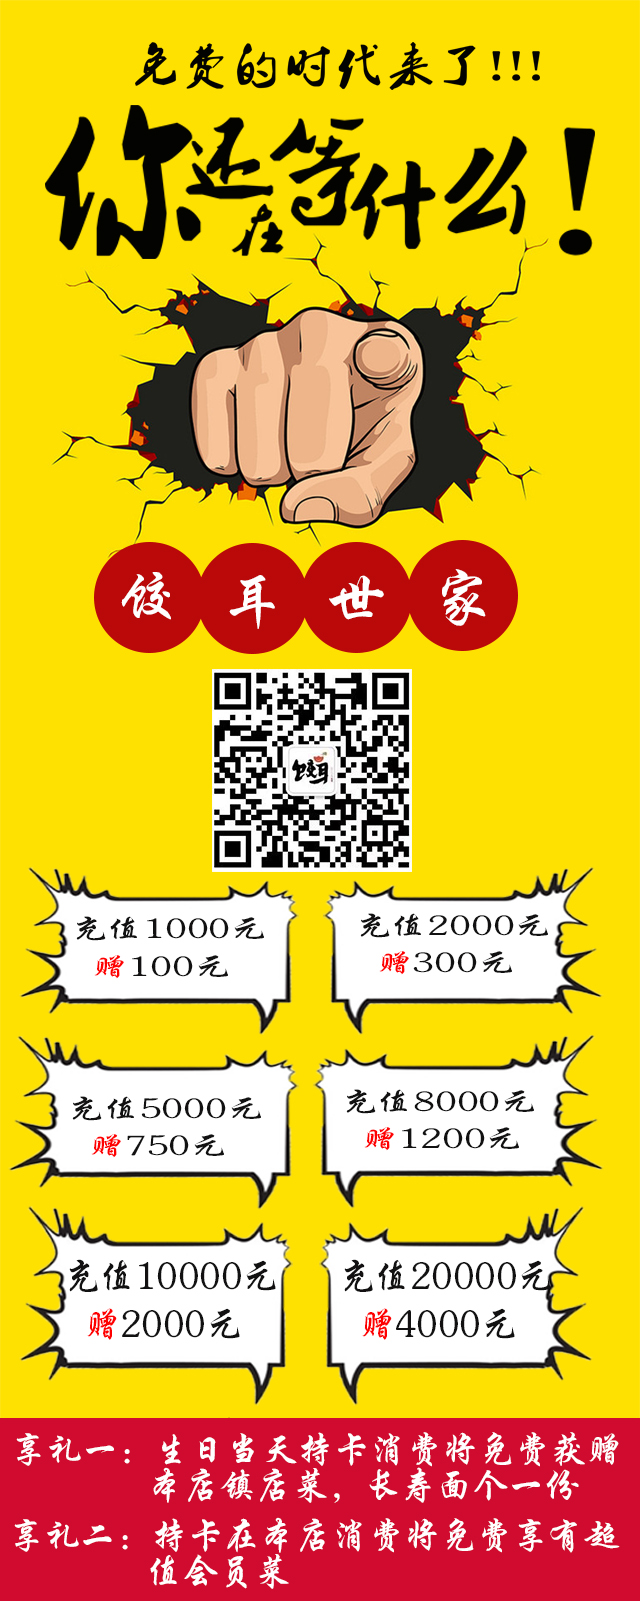
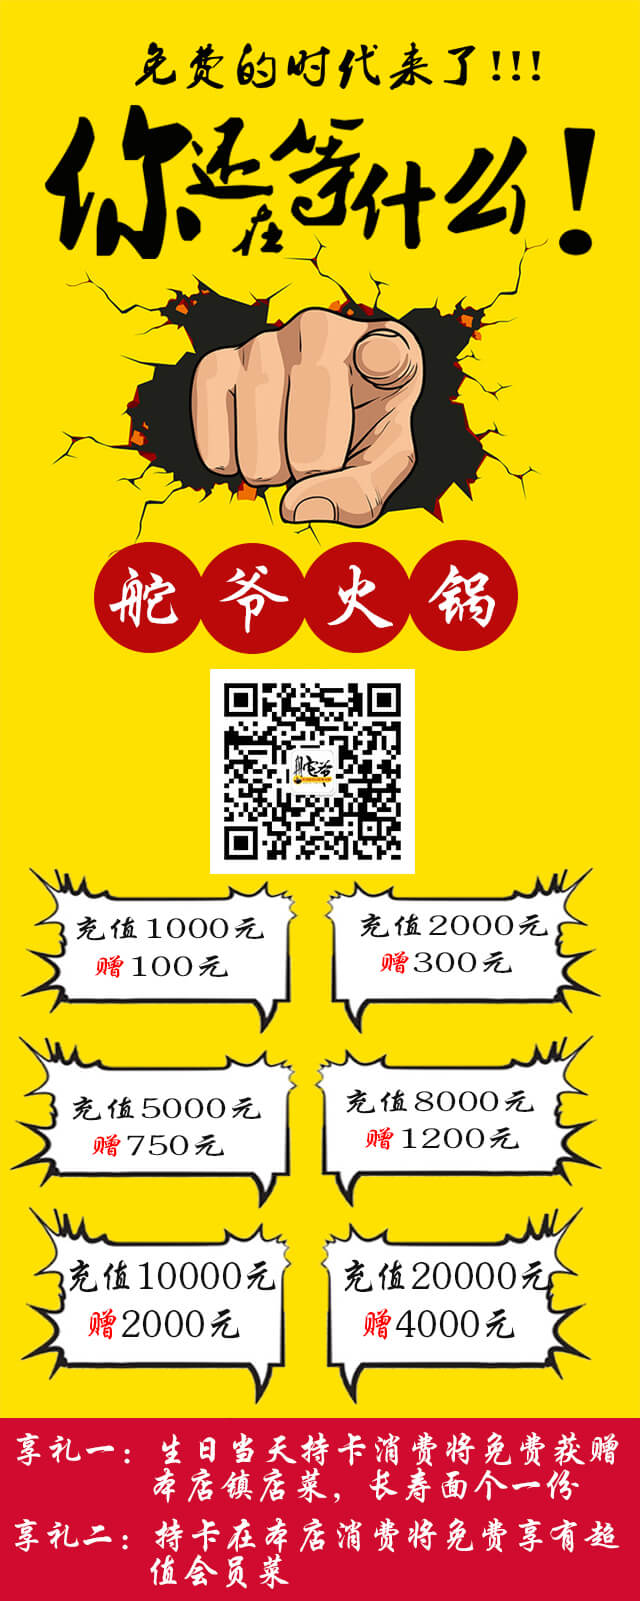
2016-11-3

diff --git a/WebContent/yd_about_us.html b/WebContent/yd_about_us.html
@@ -55,7 +55,7 @@
                         <p>生日当天持卡消费还将获赠镇店菜、长寿面各一份(详情请质询店内服务员)</p>
                         <h4 class="color-dd2727">活动三</h4>
                         <p>店内充值卡满赠活动正在火热进行。充1000赠100，充5000赠750，最高赠到4000！！！</br>还有金牌饺子券和豪礼相送拿着充值卡，享受会员价</p>
-                         <p class="color-dd2727">注释：具体活动详情请到店咨询，本活动最终解释权归饺耳世家所有。</p>
+                         <p class="color-dd2727">注释：具体活动详情请到店咨询，本活动最终解释权归舵爷火锅所有。</p>
 				</div>
 				<div class="our-list">
 					 <h3>人才招聘</h3>
